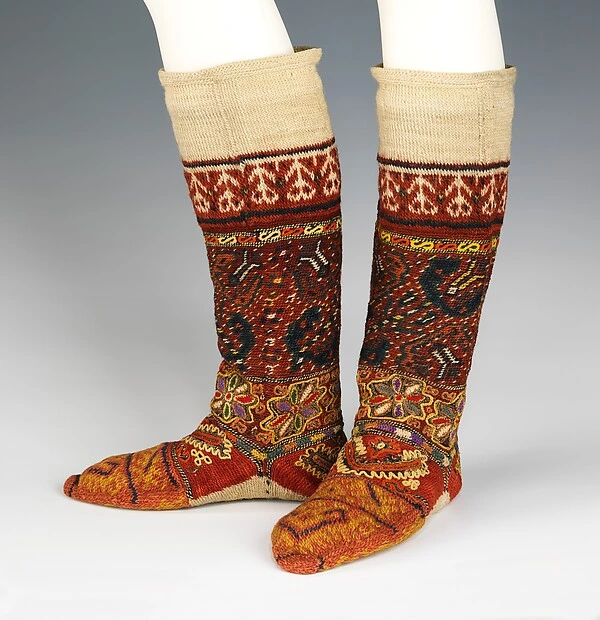
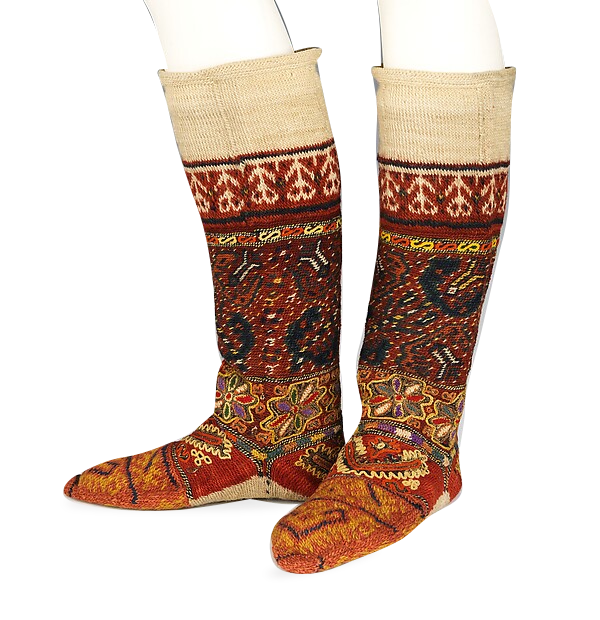
Set the Serfidže photograph on white

diff --git a/chorapi.html b/chorapi.html
@@ -1179,7 +1179,7 @@ body.muzej-logo-hidden .site-header .brand-mark {
 </header>
 <article class="article-shell article-longform">
 <section class="content-row">
-<figure class="article-body-media"><img src="./Assets/Chorapi/servia-met.webp" alt="Two wool stockings with cream cuffs and red and gold patterned bands displayed on leg forms" width="600" height="620" loading="lazy" decoding="async"/><figcaption>Men’s wool and metal-thread stockings from Serfidže, Egej Macedonia, fourth quarter of the nineteenth century. <a href="https://www.metmuseum.org/art/collection/search/158354">The Metropolitan Museum of Art, 2009.300.3419a, b.</a></figcaption></figure>
+<figure class="article-body-media"><img src="./Assets/Chorapi/servia-met.webp?v=white-background" alt="Two wool stockings with cream cuffs and red and gold patterned bands displayed on leg forms" width="600" height="620" loading="lazy" decoding="async"/><figcaption>Men’s wool and metal-thread stockings from Serfidže, Egej Macedonia, fourth quarter of the nineteenth century. <a href="https://www.metmuseum.org/art/collection/search/158354">The Metropolitan Museum of Art, 2009.300.3419a, b.</a></figcaption></figure>
 <div class="article-body-copy body-block">
 <p>Most of the length of these stockings is black. Just below the top edge, a band of blue, pink and red flowers runs through green leaves. Pale metallic borders sit above and below it. Lower down, the flowers return on the foot, and small red marks cover the toes. Between the two concentrations of pattern there is a long stretch of plain wool.</p>
 <p>The Museum of Macedonia dates the pair to the late nineteenth or early twentieth century and records it as part of men’s dress from Gorni Polog. The stockings are knitted in black wool and <i>srma</i>, a term the museum uses here for silver- and gold-wrapped thread. The flowers were worked in colored wool embroidery. The same black ground is visible through both kinds of ornament.</p>
